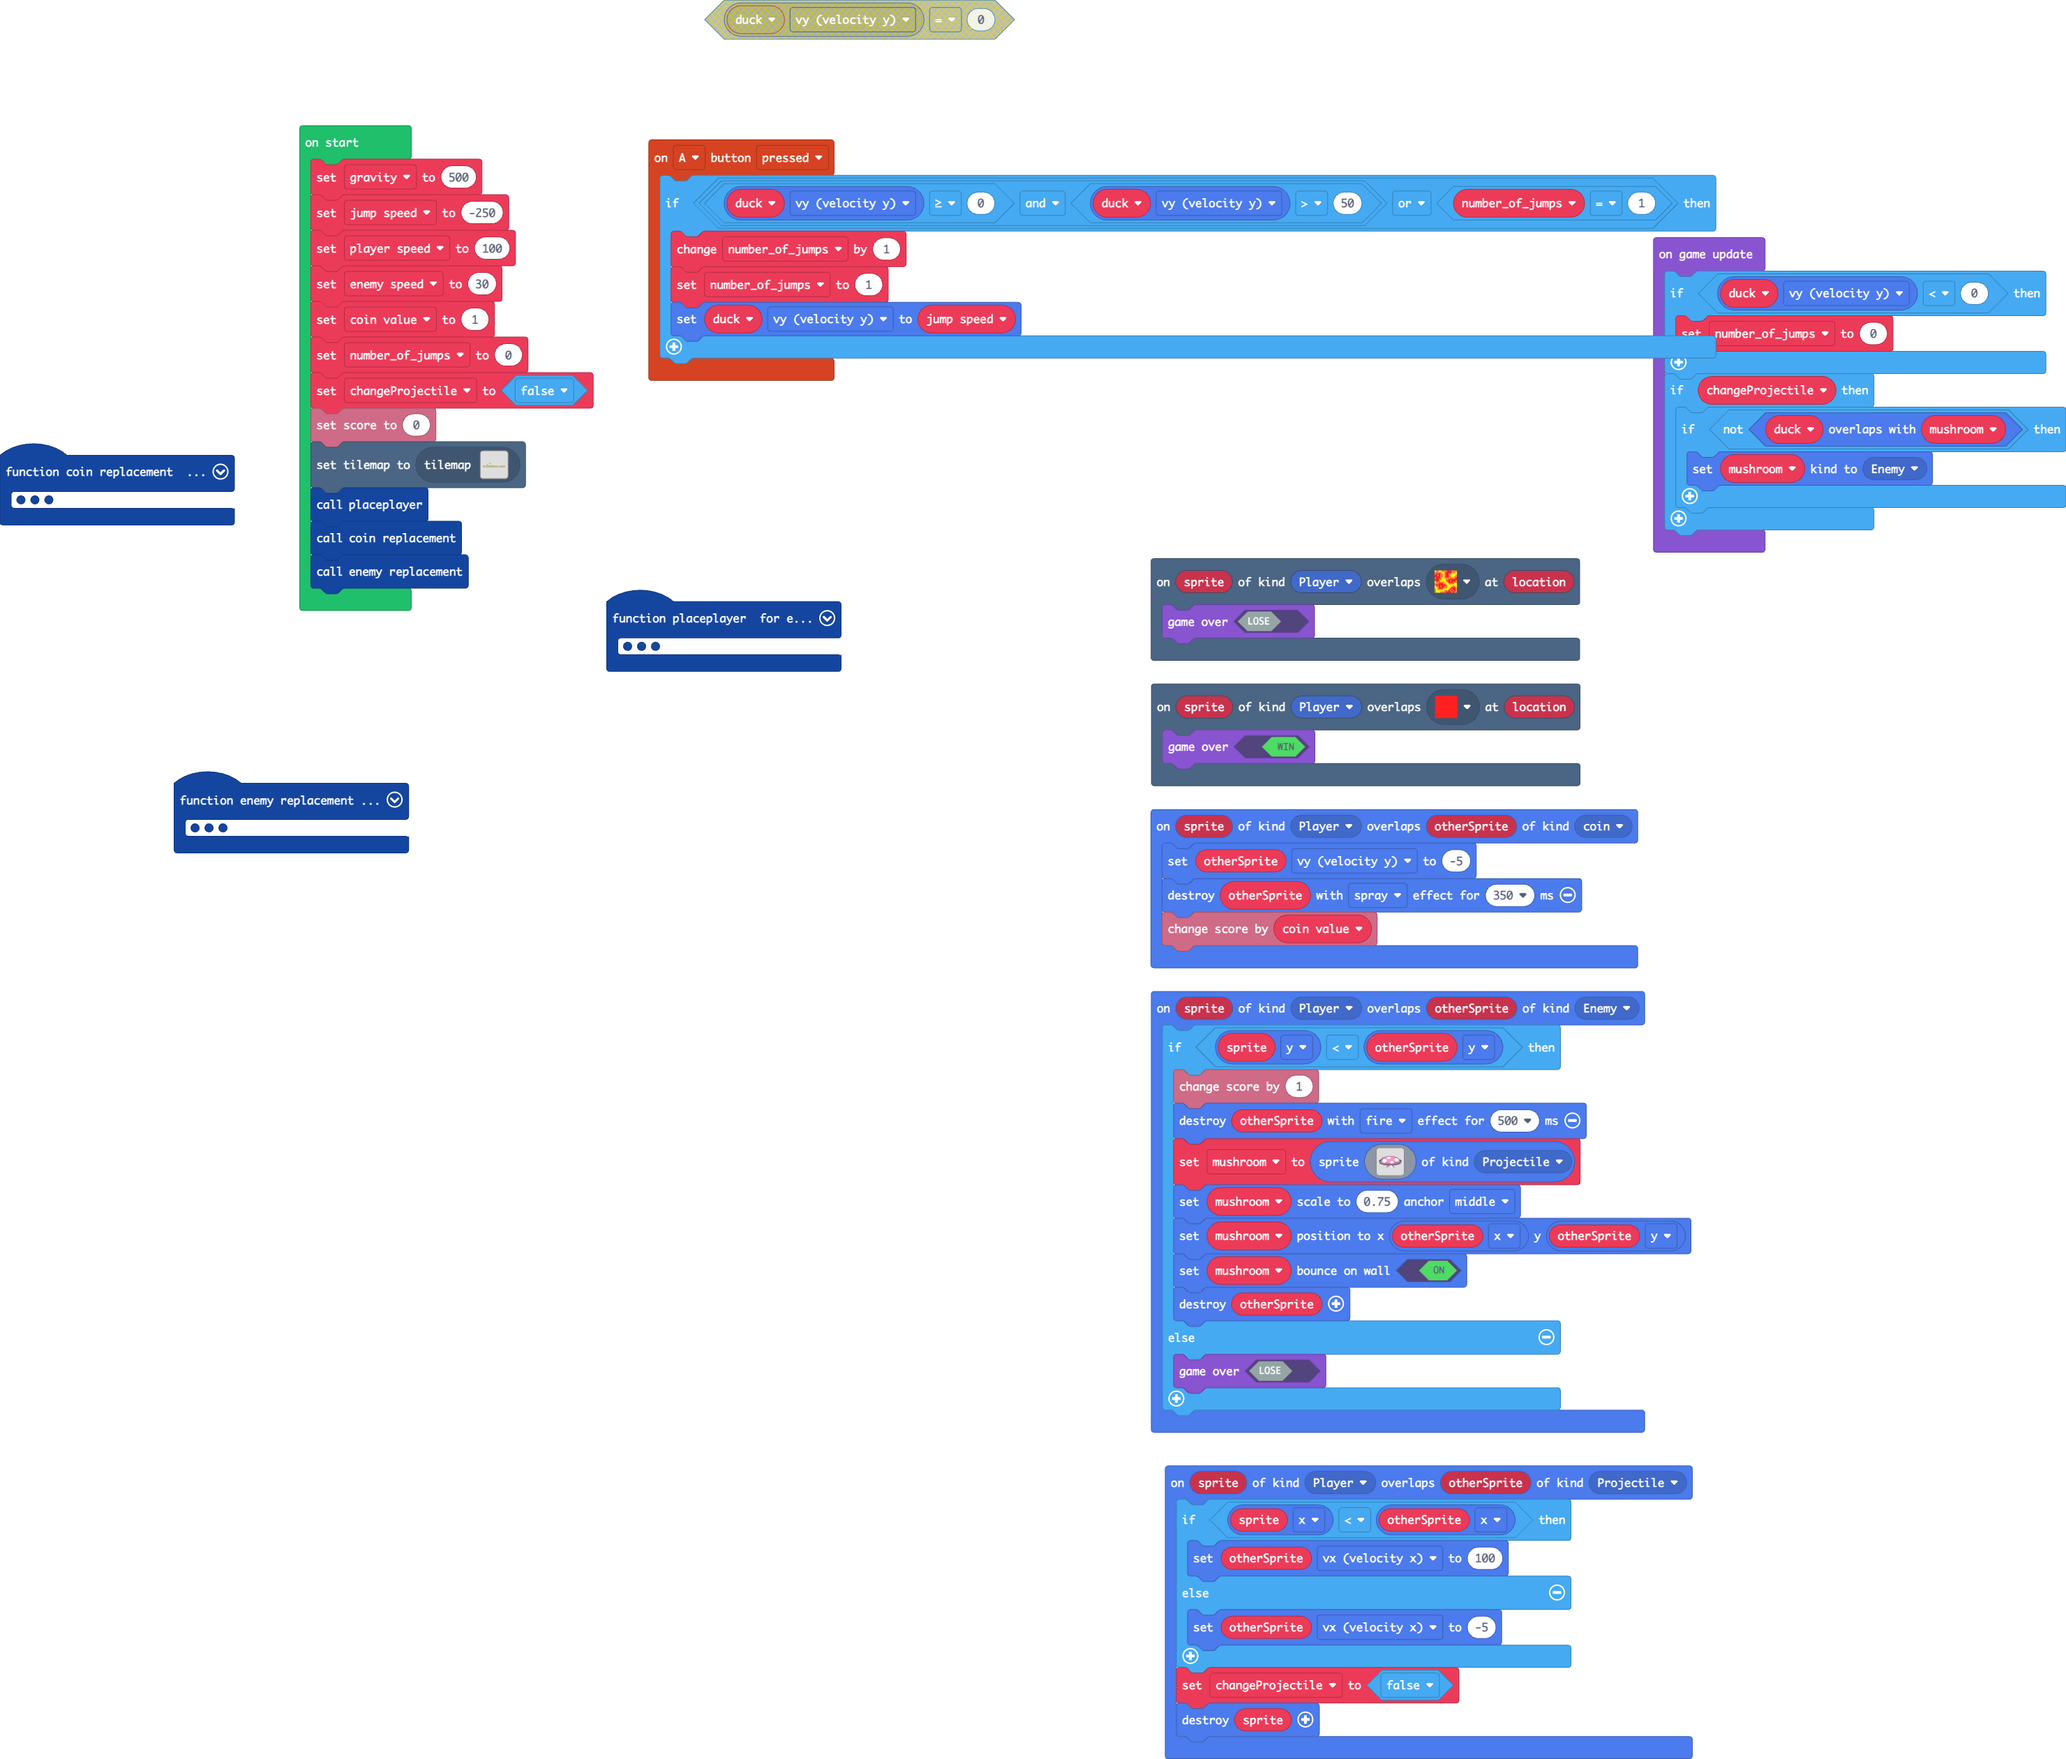
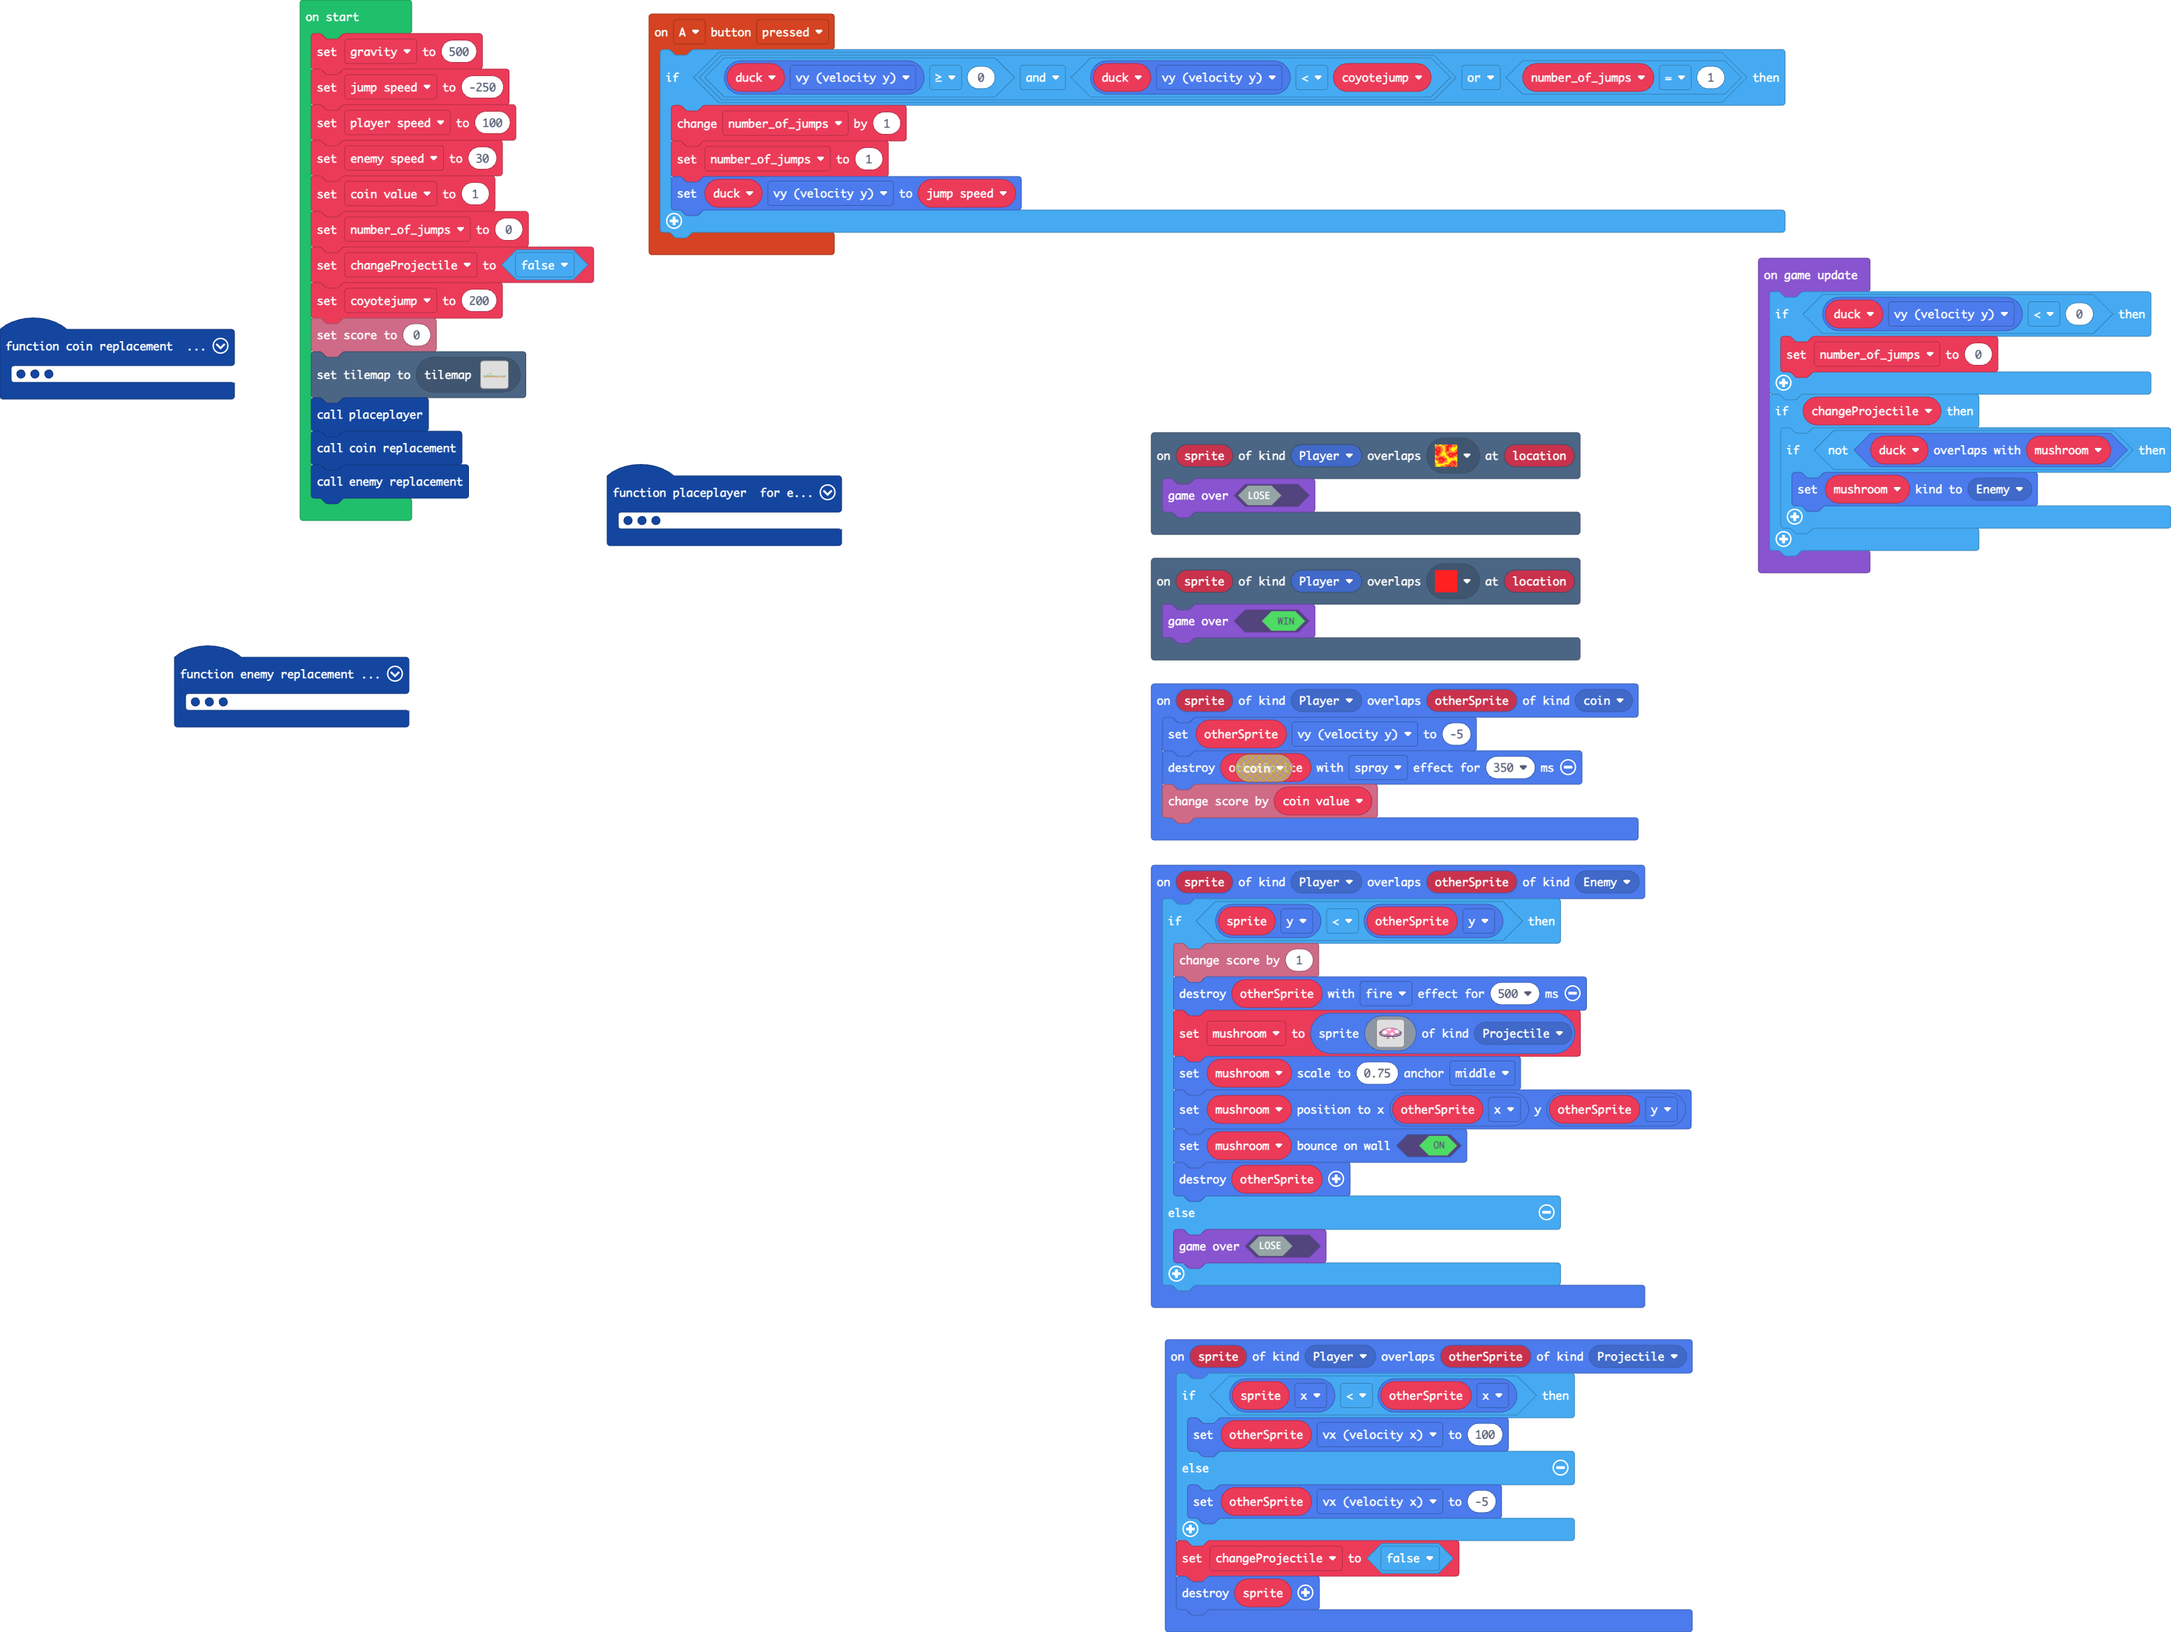
Update main.blocks, main.ts

diff --git a/main.ts b/main.ts
@@ -5,7 +5,7 @@ scene.onOverlapTile(SpriteKind.Player, assets.tile`myTile0`, function (sprite, l
     game.gameOver(true)
 })
 controller.A.onEvent(ControllerButtonEvent.Pressed, function () {
-    if (duck.vy >= 0 && duck.vy > 50 || number_of_jumps == 1) {
+    if (duck.vy >= 0 && duck.vy < coyotejump || number_of_jumps == 1) {
         number_of_jumps += 1
         number_of_jumps = 1
         duck.vy = jump_speed
@@ -147,6 +147,7 @@ let mushroom: Sprite = null
 let coin: Sprite = null
 let ghost: Sprite = null
 let duck: Sprite = null
+let coyotejump = 0
 let changeProjectile = false
 let number_of_jumps = 0
 let coin_value = 0
@@ -161,6 +162,7 @@ enemy_speed = 30
 coin_value = 1
 number_of_jumps = 0
 changeProjectile = false
+coyotejump = 200
 info.setScore(0)
 tiles.setCurrentTilemap(tilemap`level2`)
 placeplayer()
